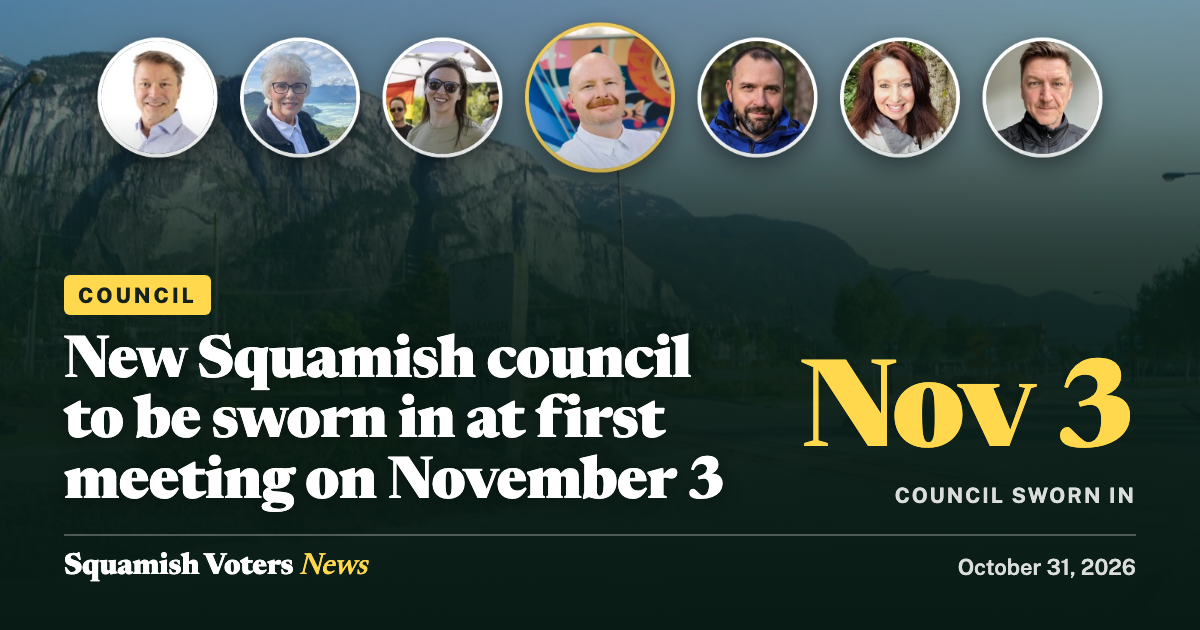
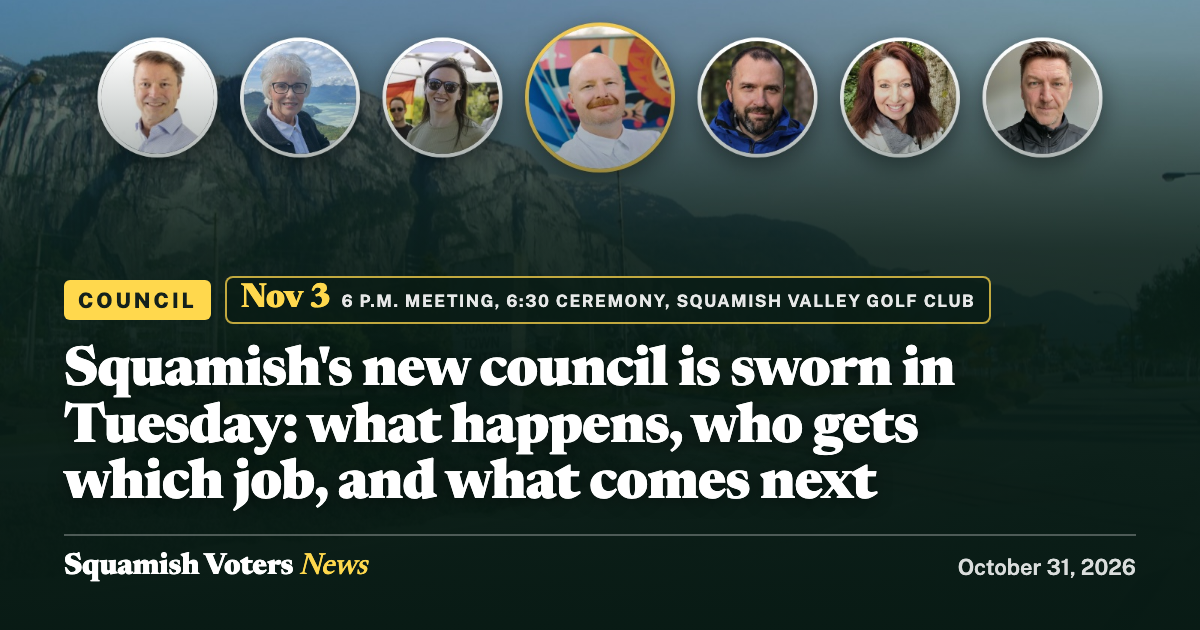
News: share pictures give the headline full width (key number becomes a badge), more enticing headline rules, Facebook post text per story

diff --git a/scripts/pipeline/news-og.html b/scripts/pipeline/news-og.html
@@ -6,23 +6,24 @@
 html,body{margin:0;width:1200px;height:630px;overflow:hidden}
 body{position:relative;background:#0f4c3a;color:#fff;font-family:"Public Sans",system-ui,sans-serif}
 .bg{position:absolute;inset:0;background-size:cover;background-position:center}
-.fade{position:absolute;inset:0;background:linear-gradient(180deg,rgba(8,26,20,0) 18%,rgba(8,26,20,.55) 48%,rgba(8,26,20,.94) 100%)}
+.fade{position:absolute;inset:0;background:linear-gradient(180deg,rgba(8,26,20,0) 8%,rgba(8,26,20,.6) 40%,rgba(8,26,20,.95) 100%)}
 .plain .fade{background:radial-gradient(120% 90% at 100% 0%,#17694f 0%,#0f4c3a 55%,#0b3a2c 100%)}
 .wrap{position:absolute;left:64px;right:64px;bottom:48px;display:flex;flex-direction:column;gap:20px}
-.row{display:flex;align-items:flex-end;gap:48px}
-.txt{flex:1;min-width:0;display:flex;flex-direction:column;gap:18px}
-.k{align-self:flex-start;font-weight:800;font-size:21px;letter-spacing:3px;text-transform:uppercase;color:#14211c;background:#ffd84d;padding:8px 14px 7px;border-radius:6px}
-h1{font:800 66px/1.04 "Newsreader",Georgia,serif;margin:0;letter-spacing:-.6px;text-wrap:balance;text-shadow:0 2px 18px rgba(0,0,0,.35)}
-.big{flex:none;text-align:right;padding-bottom:6px}
-.big b{display:block;font:800 120px/0.95 "Newsreader",Georgia,serif;color:#ffd84d;letter-spacing:-2px}
-.big span{display:block;margin-top:8px;font-size:21px;font-weight:700;letter-spacing:2px;text-transform:uppercase;opacity:.85}
+.tags{display:flex;align-items:center;gap:14px;flex-wrap:wrap}
+.k{font-weight:800;font-size:21px;letter-spacing:3px;text-transform:uppercase;color:#14211c;background:#ffd84d;padding:8px 14px 7px;border-radius:6px}
+/* The story's key number rides beside the section tag as a badge, so the headline always gets the full width. */
+.big{display:flex;align-items:baseline;gap:10px;background:rgba(8,26,20,.72);border:2px solid rgba(255,216,77,.75);border-radius:8px;padding:3px 14px 4px}
+.big b{font:800 34px/1.1 "Newsreader",Georgia,serif;color:#ffd84d;letter-spacing:-.3px;white-space:nowrap}
+.big span{font-size:17px;font-weight:700;letter-spacing:1.5px;text-transform:uppercase;opacity:.9;white-space:nowrap}
+h1{font:800 70px/1.05 "Newsreader",Georgia,serif;margin:0;letter-spacing:-.6px;text-wrap:balance;text-shadow:0 2px 18px rgba(0,0,0,.45);max-width:1040px}
 .foot{display:flex;align-items:center;justify-content:space-between;border-top:2px solid rgba(255,255,255,.28);padding-top:16px;font-size:22px}
 .foot b{font:800 30px "Newsreader",Georgia,serif;letter-spacing:-.3px}.foot b i{font-weight:500;color:#ffd84d}
 .foot span{opacity:.85;font-weight:600}
 </style></head><body>
 <div class="bg" id="bg"></div><div class="fade"></div>
 <div class="wrap">
-  <div class="row"><div class="txt"><div class="k" id="k"></div><h1 id="h"></h1></div><div class="big" id="v" hidden></div></div>
+  <div class="tags"><div class="k" id="k"></div><div class="big" id="v" hidden></div></div>
+  <h1 id="h"></h1>
   <div class="foot"><b>Squamish Voters <i>News</i></b><span id="d"></span></div>
 </div>
 <script>
@@ -33,5 +34,5 @@ document.getElementById('d').textContent = st.date;
 if (st.photo) document.getElementById('bg').style.backgroundImage = `url("${st.photo}")`;
 else document.body.className = 'plain';
 if (st.big) { const v = document.getElementById('v'); v.hidden = false; v.innerHTML = '<b></b><span></span>'; v.firstChild.textContent = st.big; v.lastChild.textContent = st.small; }
-const n = st.head.length; if (n > 60) h.style.fontSize = '58px'; if (n > 85) h.style.fontSize = '52px';
+const n = st.head.length; if (n > 55) h.style.fontSize = '62px'; if (n > 80) h.style.fontSize = '54px';
 </script></body></html>
